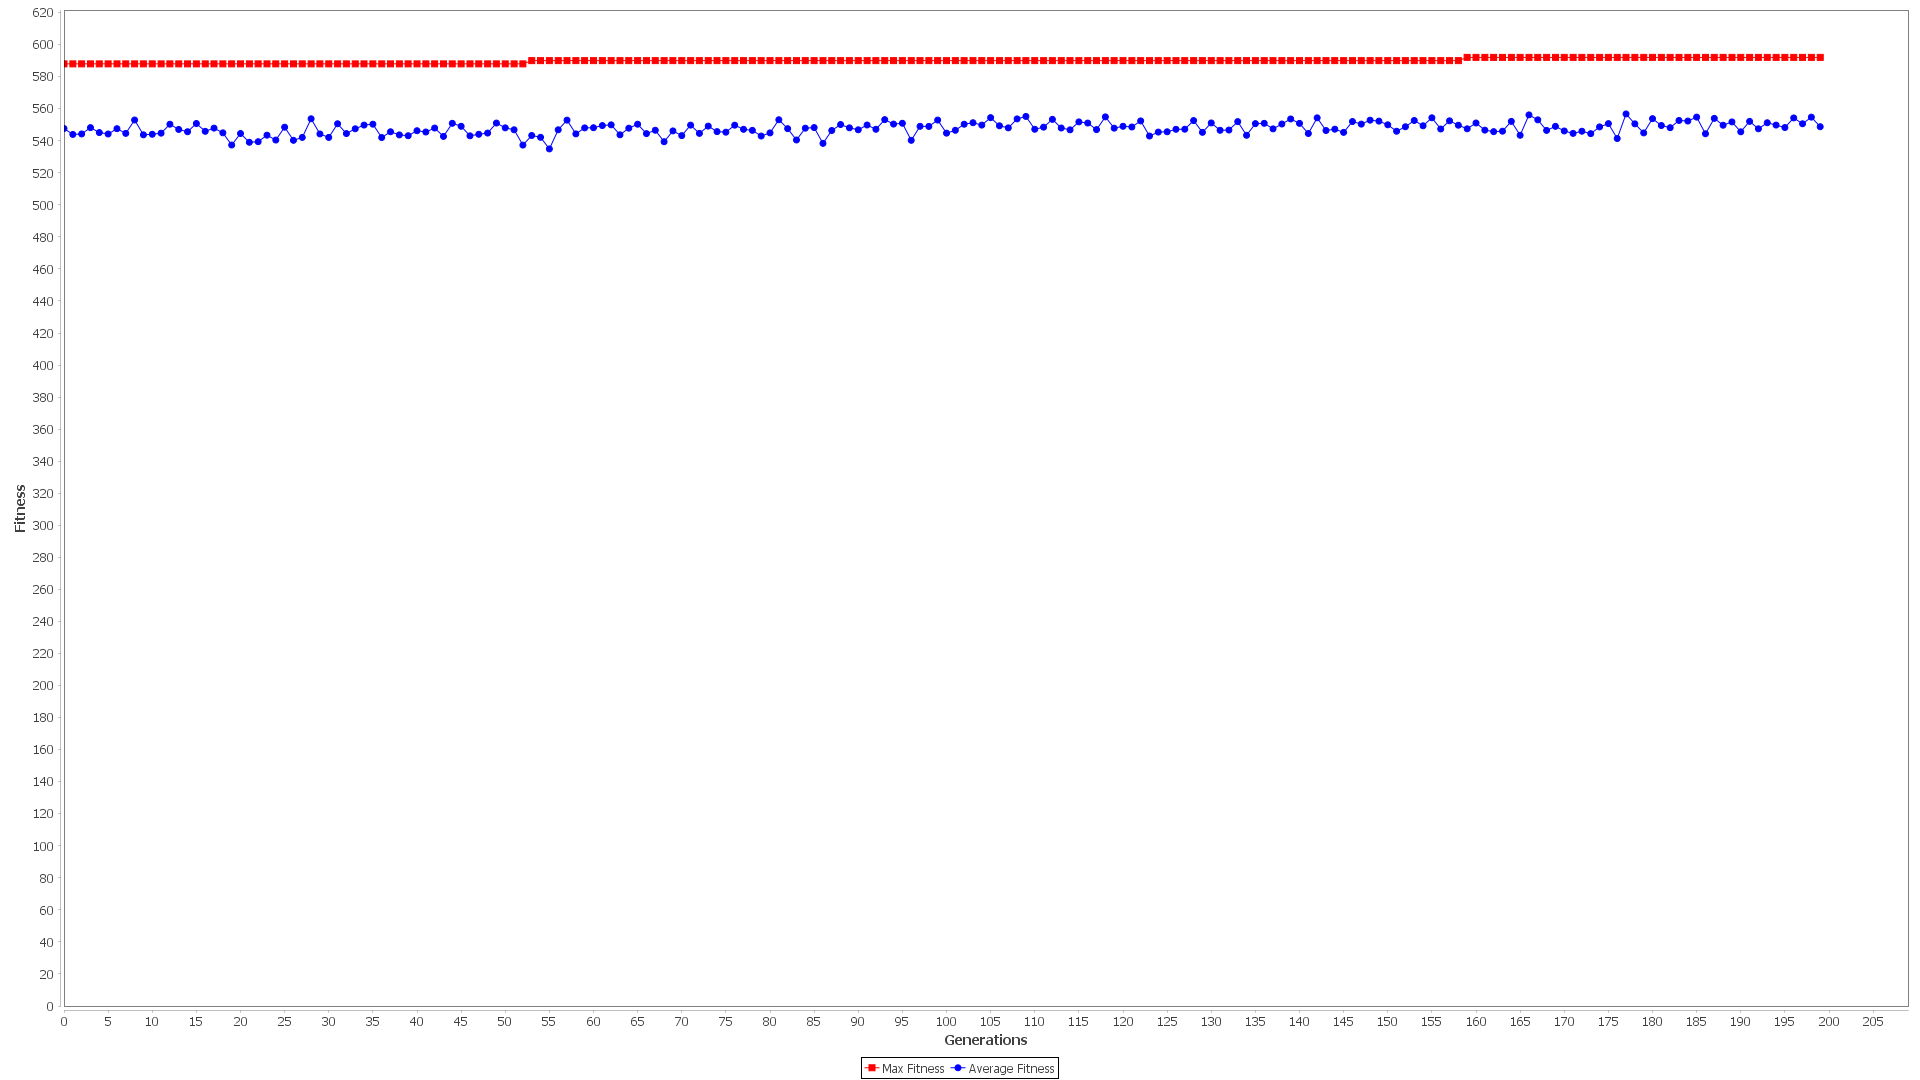
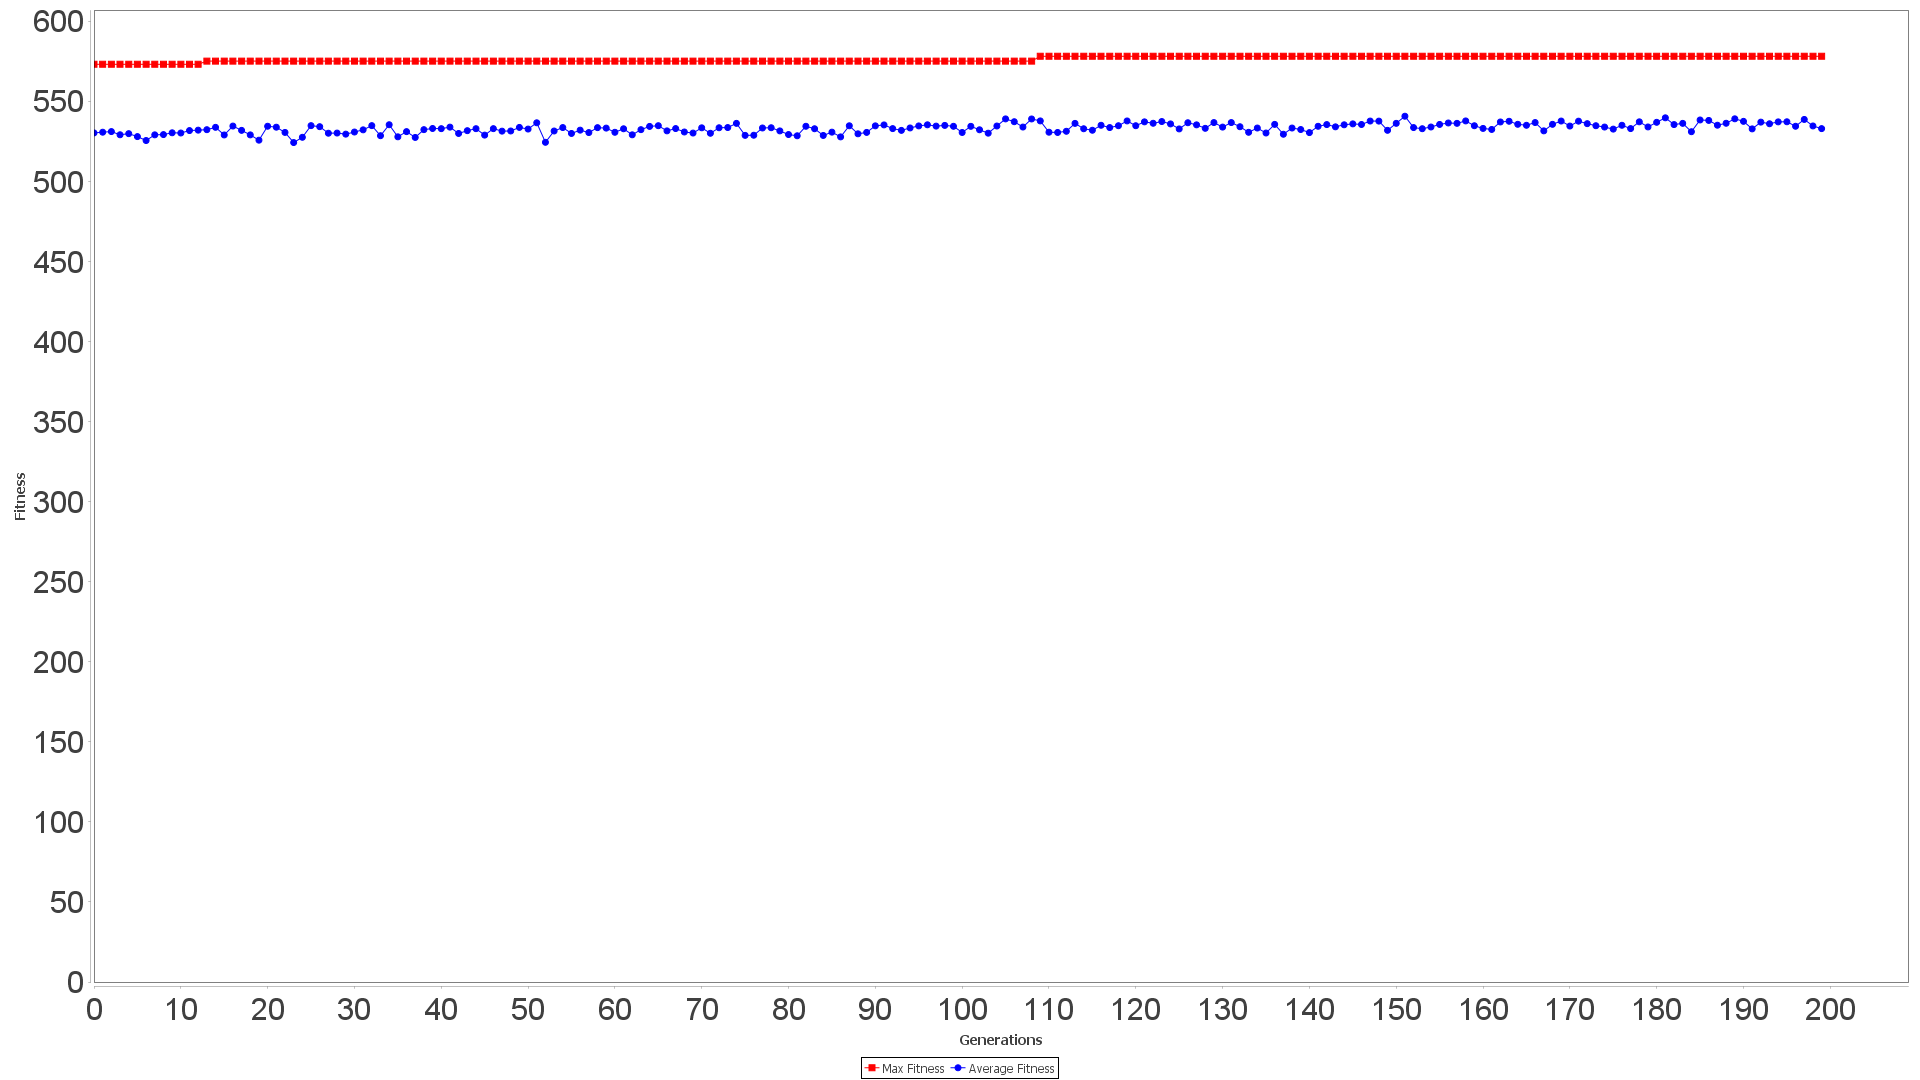
Changed chart font size

diff --git a/src/environment/GraphGenerator.java b/src/environment/GraphGenerator.java
@@ -2,6 +2,7 @@ package environment;
 
 
 import java.awt.Color;
+import java.awt.Font;
 import java.awt.event.WindowAdapter;
 import java.awt.event.WindowEvent;
 import java.io.FileOutputStream;
@@ -17,6 +18,8 @@ import org.jfree.chart.ChartFactory;
 import org.jfree.chart.ChartPanel;
 import org.jfree.chart.ChartUtilities;
 import org.jfree.chart.JFreeChart;
+import org.jfree.chart.axis.CategoryAxis;
+import org.jfree.chart.axis.ValueAxis;
 import org.jfree.chart.plot.PlotOrientation;
 import org.jfree.chart.plot.XYPlot;
 import org.jfree.chart.renderer.xy.XYLineAndShapeRenderer;
@@ -64,6 +67,13 @@ public class GraphGenerator extends JFrame{
 		
 		XYPlot plot = graph.getXYPlot();
 		
+		ValueAxis yAxis = plot.getRangeAxis();
+		
+		ValueAxis xAxis = plot.getDomainAxis();
+		
+		Font font = new Font("Dialog", Font.PLAIN, 30);
+		yAxis.setTickLabelFont(font);
+		xAxis.setTickLabelFont(font);
 		
 		plot.setOutlinePaint(Color.BLACK);
 		plot.setRenderer(renderer);
